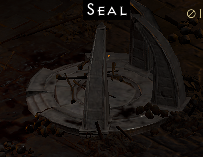
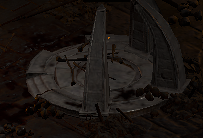
A2L Seals work consistently. A1Y quite good.

diff --git a/src/run/diablo.py b/src/run/diablo.py
@@ -78,9 +78,7 @@ class Diablo:
             self._char.kill_cs_trash()
             self._picked_up_items = self._pickit.pick_up_items(self._char)
             Logger.info("Clear Trash A1Y Fake Seal from SAFE_DIST")
-            self._pather.traverse_nodes([610], self._char) # calibrate A1Y Seal1 Noboss - we fight bit away from the seal to keep the template-check later on clear
-            self._pather.traverse_nodes([611], self._char) # yes it looks stupid but going back between 610 and 611 ensures we are at the right place to pop the seal
-            self._pather.traverse_nodes([610], self._char) # here we go, lets pop the seal
+            self._pather.traverse_nodes([610, 611, 610], self._char) # calibrate A1Y Seal1 Noboss - we fight bit away from the seal to keep the template-check later on clear
             Logger.info("Calibrating after Loot")            
             self._char.select_by_template(["DIA_A1Y_0", "DIA_A1Y_0_MOUSEOVER"], threshold=0.50, time_out=5) #threshold lowered
             wait(1)
@@ -89,9 +87,7 @@ class Diablo:
             self._char.kill_cs_trash()
             Logger.info("Clear Trash A1Y Boss Seal")
             self._picked_up_items = self._pickit.pick_up_items(self._char)
-            self._pather.traverse_nodes([611], self._char) # go to A1Y Seal2 Boss recalibrate after loot
-            self._pather.traverse_nodes([610], self._char) # go to A1Y Seal2 Boss recalibrate after loot
-            self._pather.traverse_nodes([611], self._char) # go to A1Y Seal2 Boss recalibrate after loot
+            self._pather.traverse_nodes([611, 610, 611], self._char) # go to A1Y Seal2 Boss recalibrate after loot
             Logger.info("Calibrating after Loot")   
             self._char.select_by_template(["DIA_A1Y_8", "DIA_A1Y_8_MOUSEOVER"], threshold=0.50, time_out=5) #threshold lowered
             wait(1)
@@ -112,19 +108,22 @@ class Diablo:
             self._pather.traverse_nodes_fixed("diablo_a2_safe_dist", self._char) # we between the seals
             self._char.kill_cs_trash()
             Logger.info("Clear Trash A2L SAFE DIST")
-            self._pather.traverse_nodes([621], self._char)
+            self._pather.traverse_nodes([622, 621, 620], self._char) #traverse
             self._char.kill_cs_trash()
-            Logger.info("Clear Trash A2L FAKE Seal")
-            self._picked_up_items = self._pickit.pick_up_items(self._char)
-            self._char.select_by_template(["DIA_A2L_2", "DIA_A2L_3"], threshold=0.50, time_out=5) #threshold lowered            
-            wait(1)
+            wait(2) #let hammercloud clear up
+            self._char.select_by_template(["DIA_A2L_2", "DIA_A2L_3", "DIA_A2L_2_621", "DIA_A2L_2_620", "DIA_A2L_2_620_MOUSEOVER"], threshold=0.50, time_out=5) #threshold lowered            
+            wait(0.5)
+            self._pather.traverse_nodes([621], self._char) #traverse
+            self._char.select_by_template(["DIA_A2L_2", "DIA_A2L_3", "DIA_A2L_2_621", "DIA_A2L_2_620", "DIA_A2L_2_620_MOUSEOVER"], threshold=0.50, time_out=5) #failsafe 2nd try           
+            wait(0.5)
             Logger.info("A2L Pop Fake Seal")
-            #self._pather.traverse_nodes([622], self._char) #traverse
-            self._pather.traverse_nodes([623], self._char)
+            self._pather.traverse_nodes([622, 623], self._char) #traverse
+            self._char.kill_cs_trash() # sometimes there is a single caster below seal2 blocking viziers spawn.
+            wait(2) #let hammercloud clear up
             self._char.select_by_template(["DIA_A2L_0", "DIA_A2L_1"], threshold=0.50, time_out=5) #threshold lowered    
-            wait(1)
+            wait(0.5)
             Logger.info("A2L Pop Boss Seal")
-            self._pather.traverse_nodes([622], self._char) #go to safe dist
+            self._pather.traverse_nodes([622], self._char) #go to safe dist -> the idea is to make the merc move away from vizier spawn. if there is a stray monster at the spawn, vizier will only come if cleared and our attack sequence might miss.
             self._char.kill_vizier()
             Logger.info("Kill Vizier")
             self._picked_up_items = self._pickit.pick_up_items(self._char)
@@ -143,15 +142,15 @@ class Diablo:
             Logger.debug("B = FIRST LAYOUT (S)")
             self._pather.traverse_nodes_fixed("diablo_pentagram_b1_seal", self._char) #pop De Seis Seal (B-S)
             Logger.debug("go to seal")
+            Logger.debug("Kill these Demon Trash")
+            self._char.kill_cs_trash()
+            Logger.debug("Loot their bloody corpses")
+            picked_up_items = self._pickit.pick_up_items(self._char) # after looting we are completely off-track, we need to calibrate again.
+            Logger.debug("Calibrating at Seal B SECPOND Layout S")
+            wait(1)
             self._char.select_by_template(["DIABLO_SEAL_B1_3"], threshold=0.5, time_out=4)
             Logger.debug("pop to seal")
             self._pather.traverse_nodes_fixed("diablo_wp_entrance", self._char)
-            #Logger.debug("Kill these Demon Trash")
-            #self._char.kill_cs_trash()
-            #Logger.debug("Loot their bloody corpses")
-            #picked_up_items = self._pickit.pick_up_items(self._char) # after looting we are completely off-track, we need to calibrate again.
-            Logger.debug("Calibrating at Seal B SECPOND Layout S")
-            wait(1)
             self._pather.traverse_nodes([630], self._char)
             self._pather.traverse_nodes_fixed("diablo_pentagram_b1_safe_dist", self._char) # go to de seis
             self._char.kill_deseis()

diff --git a/src/pather.py b/src/pather.py
@@ -161,7 +161,7 @@ class Pather:
             # Diablo Chaos Sanctuary 600
             600: {"DIABLO_1": (-127, -11), "DIABLO_0": (310, -121),}, #waypoint  
             601: {"DIABLO_CS_ENTRANCE_3": (5, -130), "DIABLO_CS_ENTRANCE_0": (145, 128), "DIABLO_CS_ENTRANCE_2": (-305, -30), }, #entrance to cs -> rebuild with new templates
-            602: {"DIABLO_PENT_0": (253, 75), "DIABLO_PENT_3": (-267, -145), "DIABLO_PENT_2": (-143, 277), "DIABLO_PENT_1": (-487, 67), }, #diablo attack position at pentagram -> rebuild with new templates
+            602: {"DIABLO_PENT_0": (253, 75), "DIABLO_PENT_1": (-487, 67), }, #diablo attack position at pentagram -> rebuild with new templates "DIABLO_PENT_3": (-267, -145), "DIABLO_PENT_2": (-143, 277), 
             # SEAL A VIZIER FIRST= Y    
             #610: {"DIABLO_A_SEALS_1": (-68, 60), "DIABLO_A_SEALS_0": (249, -105), "DIABLO_A_SEALS_2": (-296, 205), "DIABLO_A_SEALS_4": (373, 40), }, #travers to uuupper seal pop location "DIABLO_A_SEALS_3": (-87, 314), 
             #611: {"DIABLO_A_SEALS_11": (-217, -39), "DIABLO_A_SEALS_7": (204, -96), "DIABLO_A_SEALS_0": (-251, 124), "DIABLO_A_SEALS_4": (-127, 269), "DIABLO_A_SEALS_8": (336, 132), }, #upper Seal pop location
@@ -470,7 +470,7 @@ if __name__ == "__main__":
     t_finder = TemplateFinder(screen)
     pather = Pather(screen, t_finder)
 
-    #display_all_nodes(pather,"DIABLO_")
+    #xxdisplay_all_nodes(pather,"DIABLO_")
 
     # # changing node pos and generating new code
     # code = ""
@@ -489,25 +489,25 @@ if __name__ == "__main__":
     #pather.traverse_nodes([601], char)
     #####pather.traverse_nodes_fixed("diablo_entrance_pentagram", char)
     
-    ### SEAL A1 ###
+    ### SEAL A1Y ###
     #pather.traverse_nodes([602], char) # calibrate pentagram
-    #pather.traverse_nodes_fixed("dia_pentagram_a_layout_check", char)
-    #pather.traverse_nodes_fixed("dia_a1_seal1", char)
+    #pather.traverse_nodes_fixed("diablo_pentagram_a_layout_check", char)
+    #pather.traverse_nodes_fixed("diablo_a1_seal1", char)
     #pather.traverse_nodes([610], char) # calibrate pentagram
     #pather.traverse_nodes([611], char) # calibrate pentagram
     #pather.traverse_nodes([614], char) # calibrate pentagram
     #pather.traverse_nodes_fixed("diablo_a1_end_pentagram", char)
     #pather.traverse_nodes([602], char) # calibrate pentagram
-        ### SEAL A2 ###
-    pather.traverse_nodes([602], char) # calibrate pentagram
-    pather.traverse_nodes_fixed("diablo_pentagram_a_layout_check", char)
-    pather.traverse_nodes_fixed("diablo_a2_safe_dist", char)
-    #pather.traverse_nodes([620], char)
-    pather.traverse_nodes([621], char)
-    pather.traverse_nodes([622], char)
-    pather.traverse_nodes([623], char)
-    pather.traverse_nodes([622], char)
-    pather.traverse_nodes_fixed("diablo_a2_end_pentagram", char)
+        ### SEAL A2L ###
+    #pather.traverse_nodes([602], char) # calibrate pentagram
+    #pather.traverse_nodes_fixed("diablo_pentagram_a_layout_check", char)
+    #pather.traverse_nodes_fixed("diablo_a2_safe_dist", char)
+    pather.traverse_nodes([620], char)
+    #pather.traverse_nodes([621], char)
+    #pather.traverse_nodes([622], char)
+    #pather.traverse_nodes([623], char)
+    #pather.traverse_nodes([622], char)
+    #pather.traverse_nodes_fixed("diablo_a2_end_pentagram", char)
     ### SEAL B1 ###
     #pather.traverse_nodes([602], char) # calibrate pentagram
     #pather.traverse_nodes_fixed("diablo_pentagram_b_layout_check", char)
